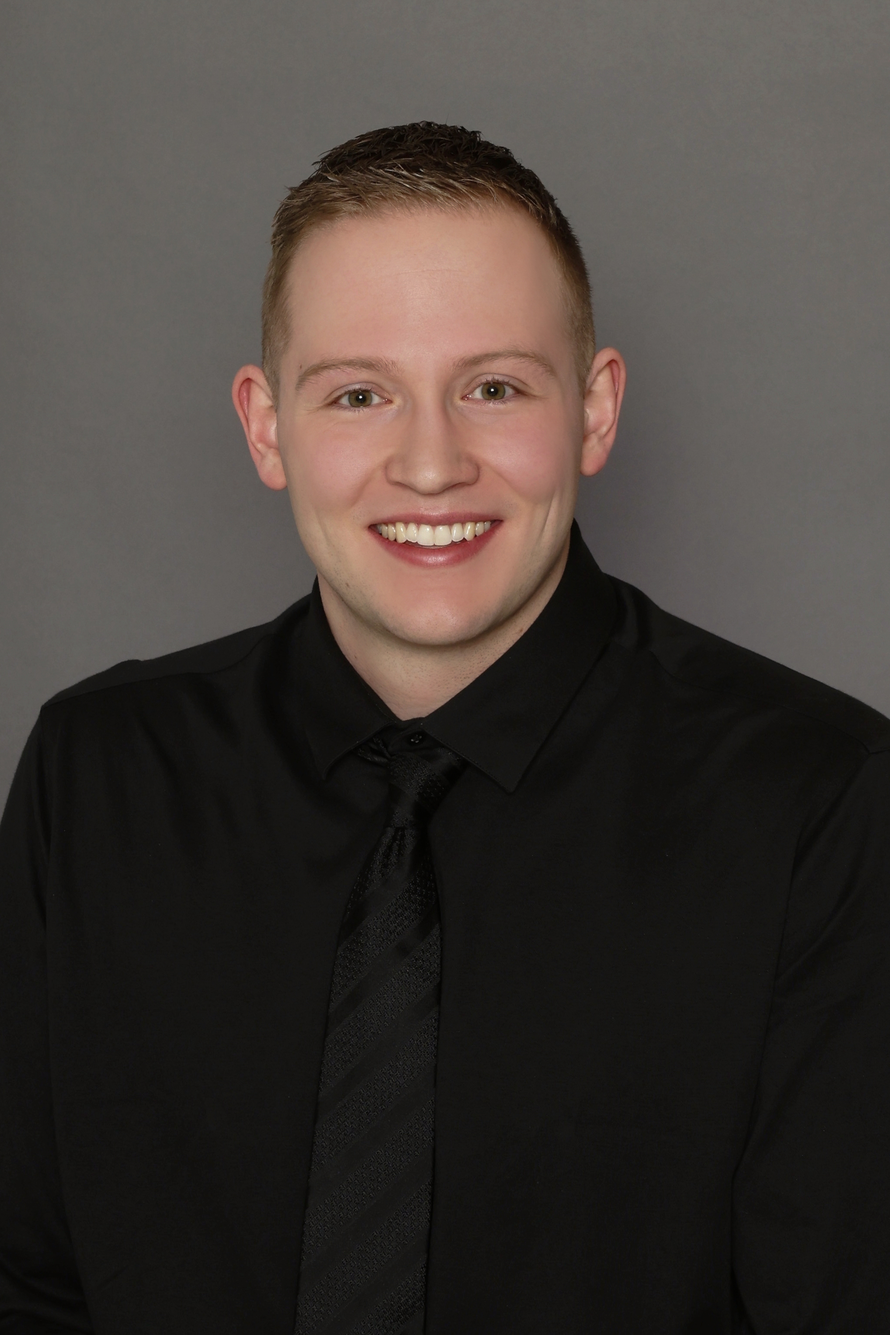
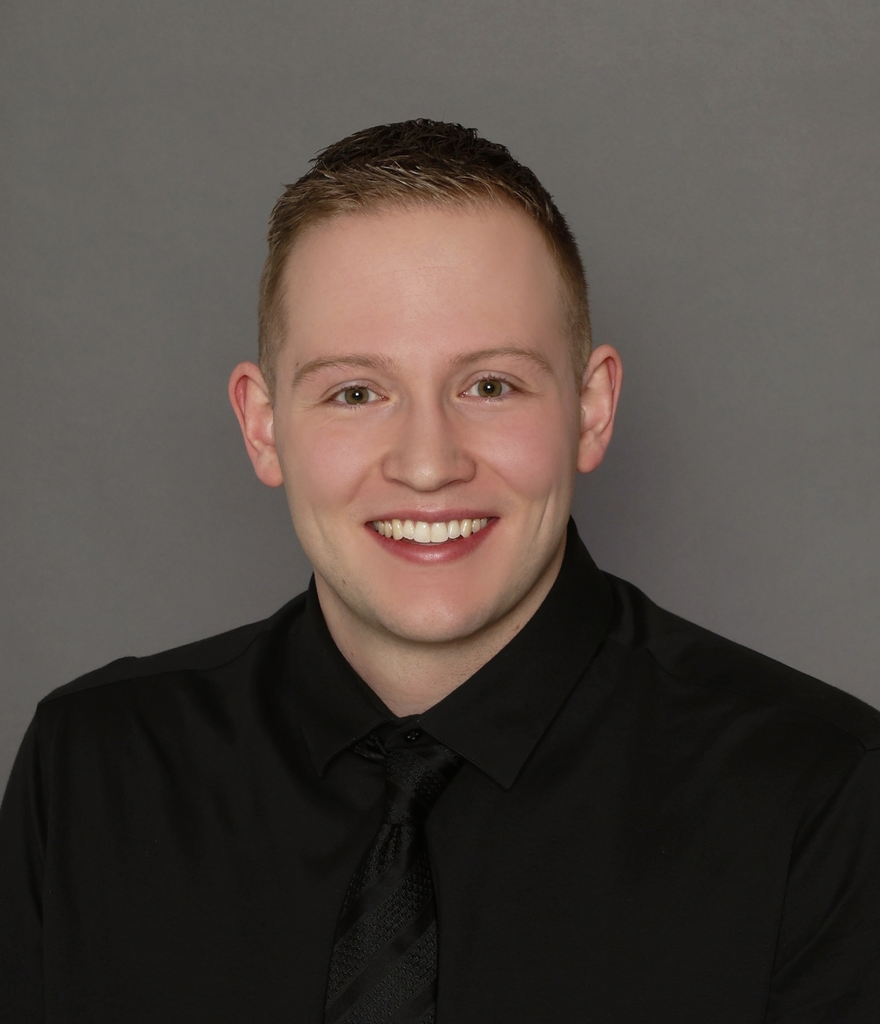
Updated team page captions

Changed region(s): [[0.0, 0.0926, 1.0, 0.7717], [0.4653, 0.8334, 0.4963, 0.8643], [0.4653, 0.7717, 0.4963, 0.8025]]

diff --git a/team/index.md b/team/index.md
@@ -10,16 +10,16 @@ nav:
 ## Principal Investigator
 {% include list.html data="members" component="portrait" filter="role == 'Principal Investigator'" %}
 
-## Research Assistant
-{% include list.html data="members" component="portrait" filter="role == 'Research Assistant'" %}
+<!-- ## Research Assistant
+{% include list.html data="members" component="portrait" filter="role == 'Research Assistant'" %} -->
 
-## PhD Students
+## PhD Students/Candidates
 {% include list.html data="members" component="portrait" filter="role == 'PhD Student'" %}
 
 ## Masters Students
 {% include list.html data="members" component="portrait" filter="role == 'Masters Student'" %}
 
-## Honours Students
+## Honours/Thesis Students
 {% include list.html data="members" component="portrait" filter="role == 'Honours Student'" %}
 
 ## Summer Students

diff --git a/_members/robert-chauvet.md b/_members/robert-chauvet.md
@@ -2,7 +2,7 @@
 name: Robert Chauvet
 image: images/team_headshots/Robert_Chauvet.jpg
 role: PhD Student
-affiliation: PhD Student
+affiliation: PhD Candidate
 aliases:
   - R. Chauvet
   - R Chauvet
@@ -11,10 +11,10 @@ links:
 <!--  orcid: -->
 ---
 **Previous education:** 
-B.Sc. in Mechanical Engineering from the University of Alberta (Graduated Spring 2021) MSc. in Mechanical Engineering from the University of Alberta (Graduated Summer 2023)  
+B.Sc. in Mechanical Engineering from the University of Alberta (Graduated Spring 2021), MSc. in Mechanical Engineering from the University of Alberta (Graduated Summer 2023)  
 
 **Title/Current position:** 
-2nd-year PhD. Student in Biomedical Engineering  
+Ph.D. Candidate in Biomedical Engineering  
 
 **Pronouns:** He/Him/His  
 

diff --git a/_members/olivia-trzesicki.md b/_members/olivia-trzesicki.md
@@ -2,7 +2,7 @@
 name: Olivia Trzesicki
 image: images/team_headshots/Olivia_Trzesicki.jpg
 role: Honours Student
-affiliation: Honours Student
+affiliation: BME Thesis Student
 aliases:
   - O. Trzesicki
   - O Trzesicki

diff --git a/_members/emily-smith.md b/_members/emily-smith.md
@@ -2,7 +2,7 @@
 name: Emily Smith
 image: images/team_headshots/Emily_Smith.jpg
 role: PhD Student
-affiliation: PhD Student
+affiliation: PhD Candidate
 aliases:
   - E. Smith
   - E Smith
